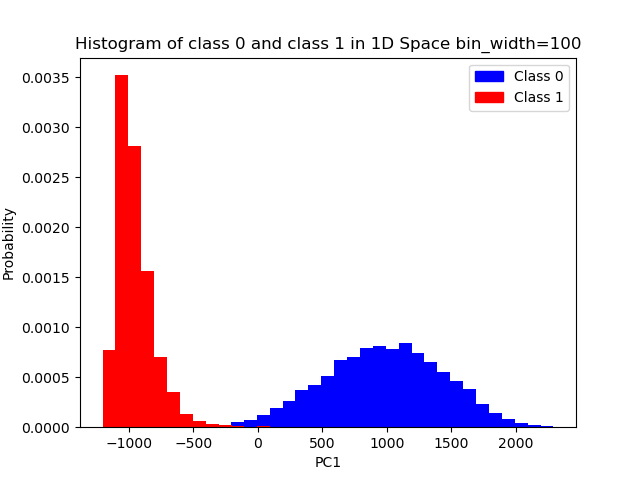
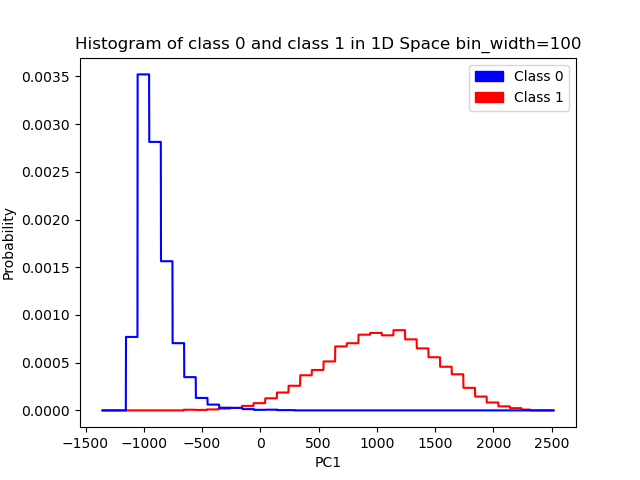
almost done a3

diff --git a/a3/a3_ex1.py b/a3/a3_ex1.py
@@ -37,19 +37,19 @@ class Histogram_Classifier():
         return 0 if self.prob0(x) > self.prob1(x) else 1
 
     def prob0(self, x):
-        if x[0] < self.min0 or x[0] > self.max0:
+        if x < self.min0 or x > self.max0:
             return 0
         else:
-            return self.proba0[int(np.floor((x[0] - self.min0) / self.bin_width))]
+            return self.proba0[int(np.floor((x - self.min0) / self.bin_width))]
 
     def prob1(self, x):
-        if x[0] < self.min1 or x[0] > self.max1:
+        if x < self.min1 or x > self.max1:
             return 0
         else:
-            return self.proba1[int(np.floor((x[0] - self.min1) / self.bin_width))]
+            return self.proba1[int(np.floor((x - self.min1) / self.bin_width))]
 
     def predict(self, X):
-        return [self.classify(x) for x in X]
+        return [self.classify(x[0]) for x in X]
 
     def __check_if_clf_trained(self):
         if self.hist0 is None or self.hist1 is None:
@@ -58,9 +58,14 @@ class Histogram_Classifier():
     def plot_histogram(self):
         # with probability as y-axis
         self.__check_if_clf_trained()
-        plt.figure()
-        plt.bar(np.arange(self.min0, self.max0, self.bin_width), self.proba0, width=self.bin_width, color='b')
-        plt.bar(np.arange(self.min1, self.max1, self.bin_width), self.proba1, width=self.bin_width, color='r')
+        total_min = min(min(self.X0), min(self.X1))[0] - 2 * self.bin_width
+        total_max = max(max(self.X0), max(self.X1))[0] + 2 * self.bin_width
+        x_plot = np.linspace(total_min, total_max, 5000)
+
+        preds_0 = [self.prob0(x) for x in x_plot]
+        preds_1 = [self.prob1(x) for x in x_plot]
+        plt.plot(x_plot, preds_0, '-r', label='P(x|y=0)')
+        plt.plot(x_plot, preds_1, '-b', label='P(x|y=1)')
         plt.xlabel("PC1")
         plt.ylabel("Probability")
         plt.title("Histogram of class 0 and class 1 in 1D Space bin_width={}".format(self.bin_width))
@@ -77,26 +82,25 @@ class KDE_Classifier():
         self.Y_clf = Y
         X0 = [X[i] for i in range(len(X)) if Y[i] == 0]
         X1 = [X[i] for i in range(len(X)) if Y[i] == 1]
-        self.X0 = X0
-        self.X1 = X1
+        self.X0 = np.array(X0)
+        self.X1 = np.array(X1)
         self.sigma = sigma
 
+    def gaussian_window(self, x):
+        # unscaled gaussian window
+        return np.exp(-0.5 * x ** 2) / np.sqrt(2 * np.pi)
+
+    def prob0(self, x):
+        self.__check_if_clf_trained()
+        vals = (self.X0 - x) / self.sigma
+        return np.mean(self.gaussian_window(vals) / self.sigma)
+    def prob1(self, x):
+        self.__check_if_clf_trained()
+        vals = (self.X1 - x) / self.sigma
+        return np.mean(self.gaussian_window(vals) / self.sigma)
+
     def classify(self, x):
-        # vectorized implementation
-        prob0 = self.parzen_class0(x)
-        prob1 = self.parzen_class1(x)
-        if prob0 > prob1:
-            return 0
-        else:
-            return 1
-
-    def parzen_class0(self, x):
-        prob0 = np.sum(np.exp(-np.sum((self.X0 - x) ** 2, axis=1) / (2 * self.sigma ** 2))) / (len(self.X0) * 1/np.sqrt(2*np.pi*self.sigma**2))
-        return prob0
-
-    def parzen_class1(self, x):
-        prob1 = np.sum(np.exp(-np.sum((self.X1 - x) ** 2, axis=1) / (2 * self.sigma ** 2))) / (len(self.X1) * 1/np.sqrt(2*np.pi*self.sigma**2))
-        return prob1
+        return 0 if self.prob0(x) > self.prob1(x) else 1
 
     def predict(self, X):
         return [self.classify(x) for x in X]
@@ -108,21 +112,24 @@ class KDE_Classifier():
     def plot_parzen_distribution(self):
         # plot the PDF of the two classes with probability as y-axis
         self.__check_if_clf_trained()
-        total_min = min(min(self.X0), min(self.X1))[0]
-        total_max = max(max(self.X0), max(self.X1))[0]
+        total_min = min(min(self.X0), min(self.X1))[0] - 2 * self.sigma
+        total_max = max(max(self.X0), max(self.X1))[0] + 2 * self.sigma
         x = np.arange(total_min, total_max, 0.1)
         y0 = np.zeros(len(x))
         y1 = np.zeros(len(x))
         for i in range(len(x)):
-            y0[i] = self.parzen_class0([x[i]])
-            y1[i] = self.parzen_class1([x[i]])
+            y0[i] = self.prob0(np.array([x[i]]))
+            y1[i] = self.prob1(np.array([x[i]]))
+
+        # sanity check to see if the sum of the two classes is 1
+        print("Sum of the two classes: {}".format(np.sum(y0) + np.sum(y1)))
         plt.figure()
-        plt.plot(x, y0, color='blue')
-        plt.plot(x, y1, color='orange')
+        plt.plot(x, y0, color='b')
+        plt.plot(x, y1, color='r')
         plt.xlabel("PC1")
         plt.ylabel("Probability")
         plt.title("Parzen Distribution of class 0 and class 1 in 1D Space sigma={}".format(self.sigma))
-        plt.legend(handles=[mpatches.Patch(color='blue', label='0'), mpatches.Patch(color='orange', label='1')])
+        plt.legend(handles=[mpatches.Patch(color='b', label='Class 0'), mpatches.Patch(color='r', label='Class 1')])
         Path(IMG_PATH).mkdir(parents=True, exist_ok=True)
         plt.savefig(IMG_PATH + "parzen_distribution.png")
         plt.show()
@@ -137,7 +144,7 @@ def main():
     X_PC, Y, pca = prep_mnist(mnist_trainset, n_components=1)
     X_test_PC, Y_test, _ = prep_mnist(mnist_testset, n_components=1, pca=pca)
 
-    clf = Histogram_Classifier(X_PC, Y)
+    clf = Histogram_Classifier(X_PC, Y, bin_width=1)
     clf.plot_histogram()
     Y_pred = clf.predict(X_test_PC)
     print("Histogram Classifier with bin width = 1")
@@ -178,9 +185,6 @@ def main():
     print("Error: ", compute_error(Y_test, Y_pred))
     print("Confusion matrix: ")
     print(confusion_matrix(Y_test, Y_pred))
-
-
-
 
 
 

diff --git a/a3/a3_ex2.py b/a3/a3_ex2.py
@@ -10,7 +10,7 @@ from pathlib import Path
 class K_Means_Clustering():
     # take in 784-1 mnist data and run k-means clustering
     def __init__(self, X, K=2):
-        self.X = X
+        self.X = np.array(X)
         self.K = K
         self.centroids = np.random.rand(K, 784)
         self.clusters = np.zeros(len(X))
@@ -20,8 +20,26 @@ class K_Means_Clustering():
 
     def train(self):
         while not self.converged:
-            self.clusters = self.predict(self.X)
-            self.converged = self.update_centroids()
+            self.clusters = self.vectorized_predict(self.X)
+            self.converged = self.vectorized_update_centroids()
+        print("Training finished.")
+
+    def vectorized_predict(self, X):
+        # vectorized version of predict
+        # returns the cluster assignments for each sample in X
+        return np.argmin(np.linalg.norm(X[:, np.newaxis] - self.centroids, axis=2), axis=1)
+
+    def vectorized_update_centroids(self):
+        converged = True
+        for k in range(self.K):
+            X_k = self.X[self.clusters == k]
+            if len(X_k) == 0:
+                continue
+            new_centroid = np.mean(X_k, axis=0)
+            if np.linalg.norm(new_centroid - self.centroids[k]) > 1e-5:
+                converged = False
+            self.centroids[k] = new_centroid
+        return converged
 
     def predict(self, X):
         return np.array([self.classify(x) for x in X])
@@ -41,6 +59,25 @@ class K_Means_Clustering():
             self.centroids[k] = new_centroid
         return converged
 
+    def compute_cluster_consistency(self, Y):
+        # compute the consistency of the clusters with the labels
+        # return the average consistency.
+        # consistency is defined as the number of correctly classified samples in a cluster
+        # divided by the total number of samples in the cluster
+        total_consistency = 0
+        for cluster in range(self.K):
+            # find the most common label in the cluster
+            labels = [Y[i] for i in range(len(Y)) if self.clusters[i] == cluster]
+            if len(labels) == 0:
+                continue
+            most_common_label = max(set(labels), key=labels.count)
+            # compute the consistency
+            consistency = len([label for label in labels if label == most_common_label]) / len(labels)
+            # print("Cluster {} has consistency {}.".format(cluster, consistency))
+            total_consistency += consistency
+
+        return total_consistency / self.K
+
 
 
 
@@ -49,30 +86,44 @@ class K_Means_Clustering():
 
 def main():
     mnist_trainset = datasets.MNIST(root='./data', train=True, download=True, transform=None)
-    mnist_testset = datasets.MNIST(root='./data', train=False, download=True, transform=None)
 
     # prepare the data (flatten the images)
-    flattened_trainset = [np.reshape(img, (784,)) for img, _ in mnist_trainset]
-    flattened_testset = [np.reshape(img, (784,)) for img, _ in mnist_testset]
+    # use only 100 samples per class
+    filtered_set = []
 
-    labels_trainset = [label for _, label in mnist_trainset]
-    labels_testset = [label for _, label in mnist_testset]
+    for i in range(10):
+        total = 0
+        for image in mnist_trainset:
+            if image[1] == i:
+                if total == 100:
+                    break
+                filtered_set.append(image)
+                total += 1
+
+    X = [np.asarray(val[0]).flatten() for val in filtered_set]
+    Y = [val[1] for val in filtered_set]
+
+    flattened_trainset = X
+    labels_trainset = Y
+
+    # flattened_trainset = [np.reshape(img, (784,)) for img, _ in mnist_trainset]
+    #
+    # labels_trainset = [label for _, label in mnist_trainset]
+
+
+
 
     # run k-means clustering (10 clusters for 10 digits)
-    k_means = K_Means_Clustering(flattened_trainset, K=10)
+    K_vals = [5, 10, 20, 40]
 
-    # assume that the cluster with the most 0s is the cluster for 0s, etc.
-    cluster_counts = np.zeros(10)
-    for i in range(len(labels_trainset)):
-        cluster_counts[k_means.clusters[i]] += 1
-    cluster_labels = np.argsort(cluster_counts)[::-1]
+    for K in K_vals:
+        k_means = K_Means_Clustering(flattened_trainset, K=K)
 
-    # predict the labels for the test set
-    predicted_labels = [cluster_labels[k_means.classify(x)] for x in flattened_testset]
+        # compute the cluster consistency
+        cluster_consistency = k_means.compute_cluster_consistency(labels_trainset)
+        print("For K = {} Cluster Consistency: {}".format(K, cluster_consistency))
 
-    # compute the accuracy
-    accuracy = sklearn.metrics.accuracy_score(labels_testset, predicted_labels)
-    print("Accuracy: ", accuracy)
+        print("-" * 50)
 
 
 
